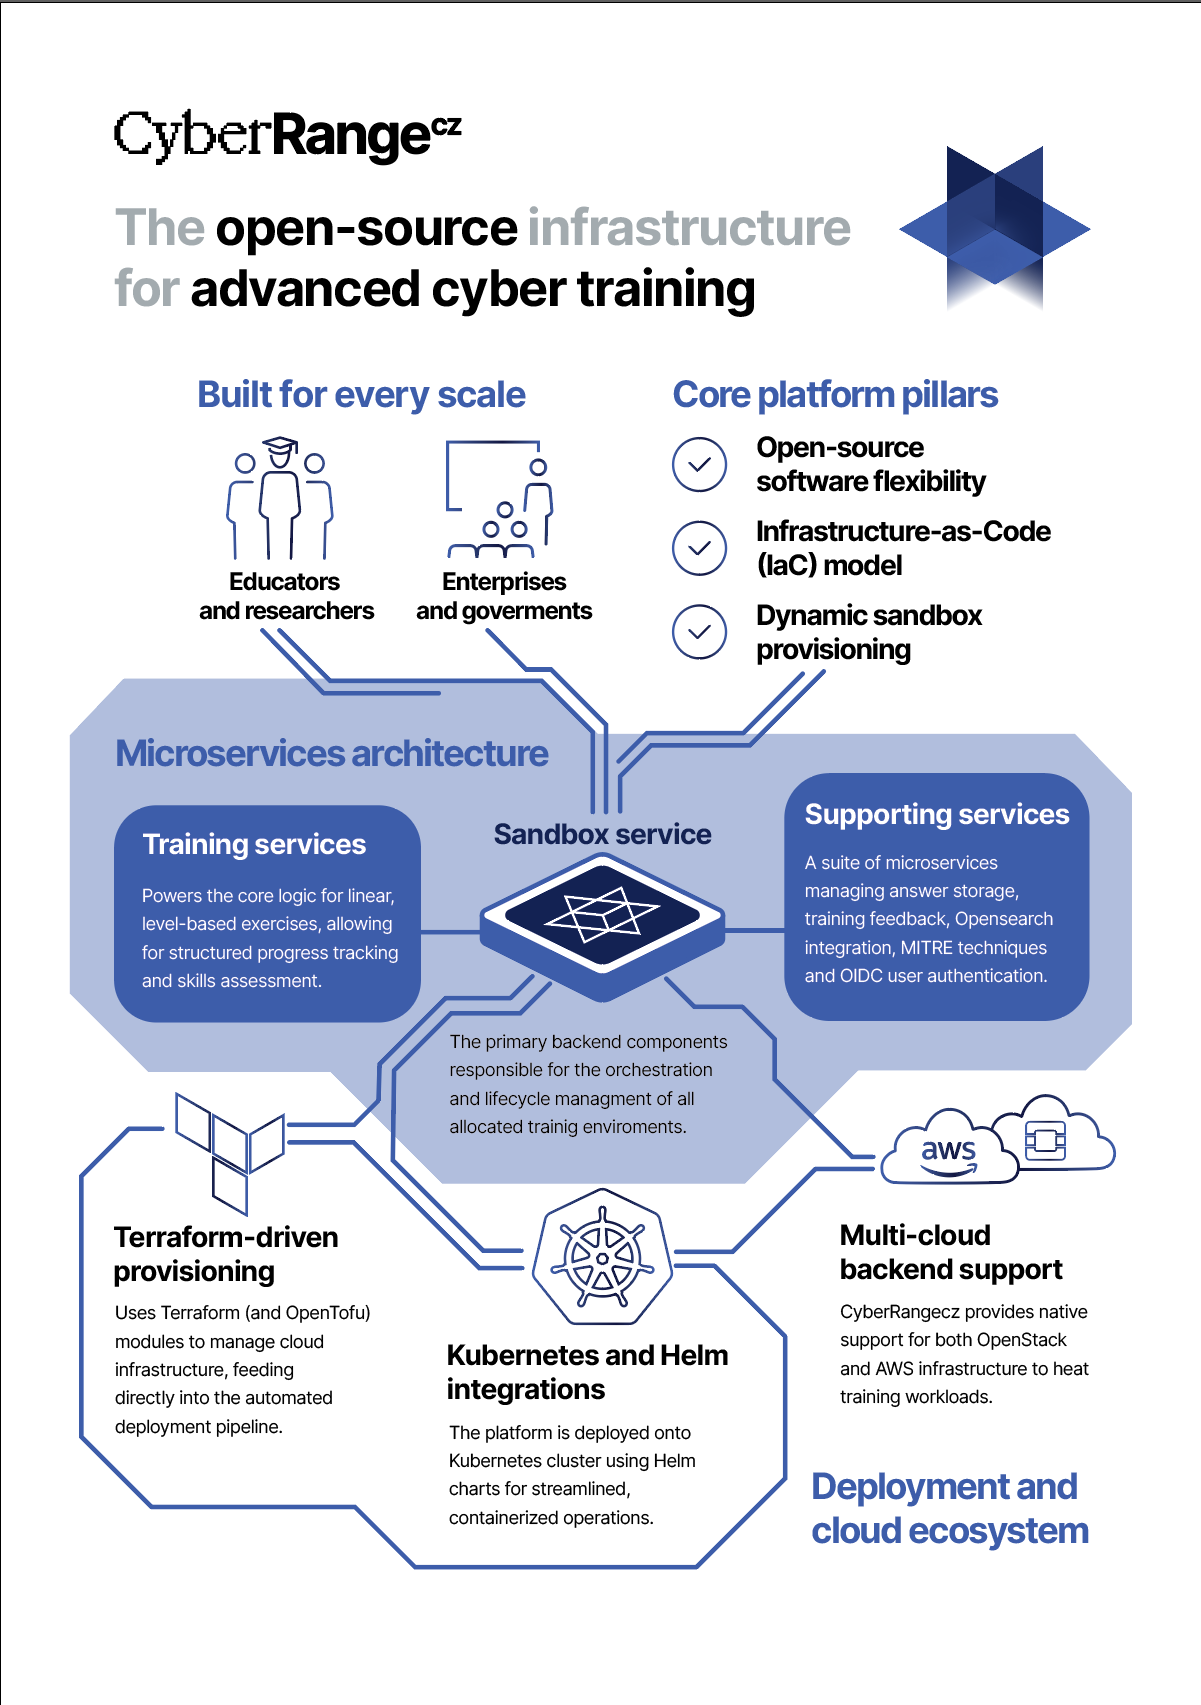
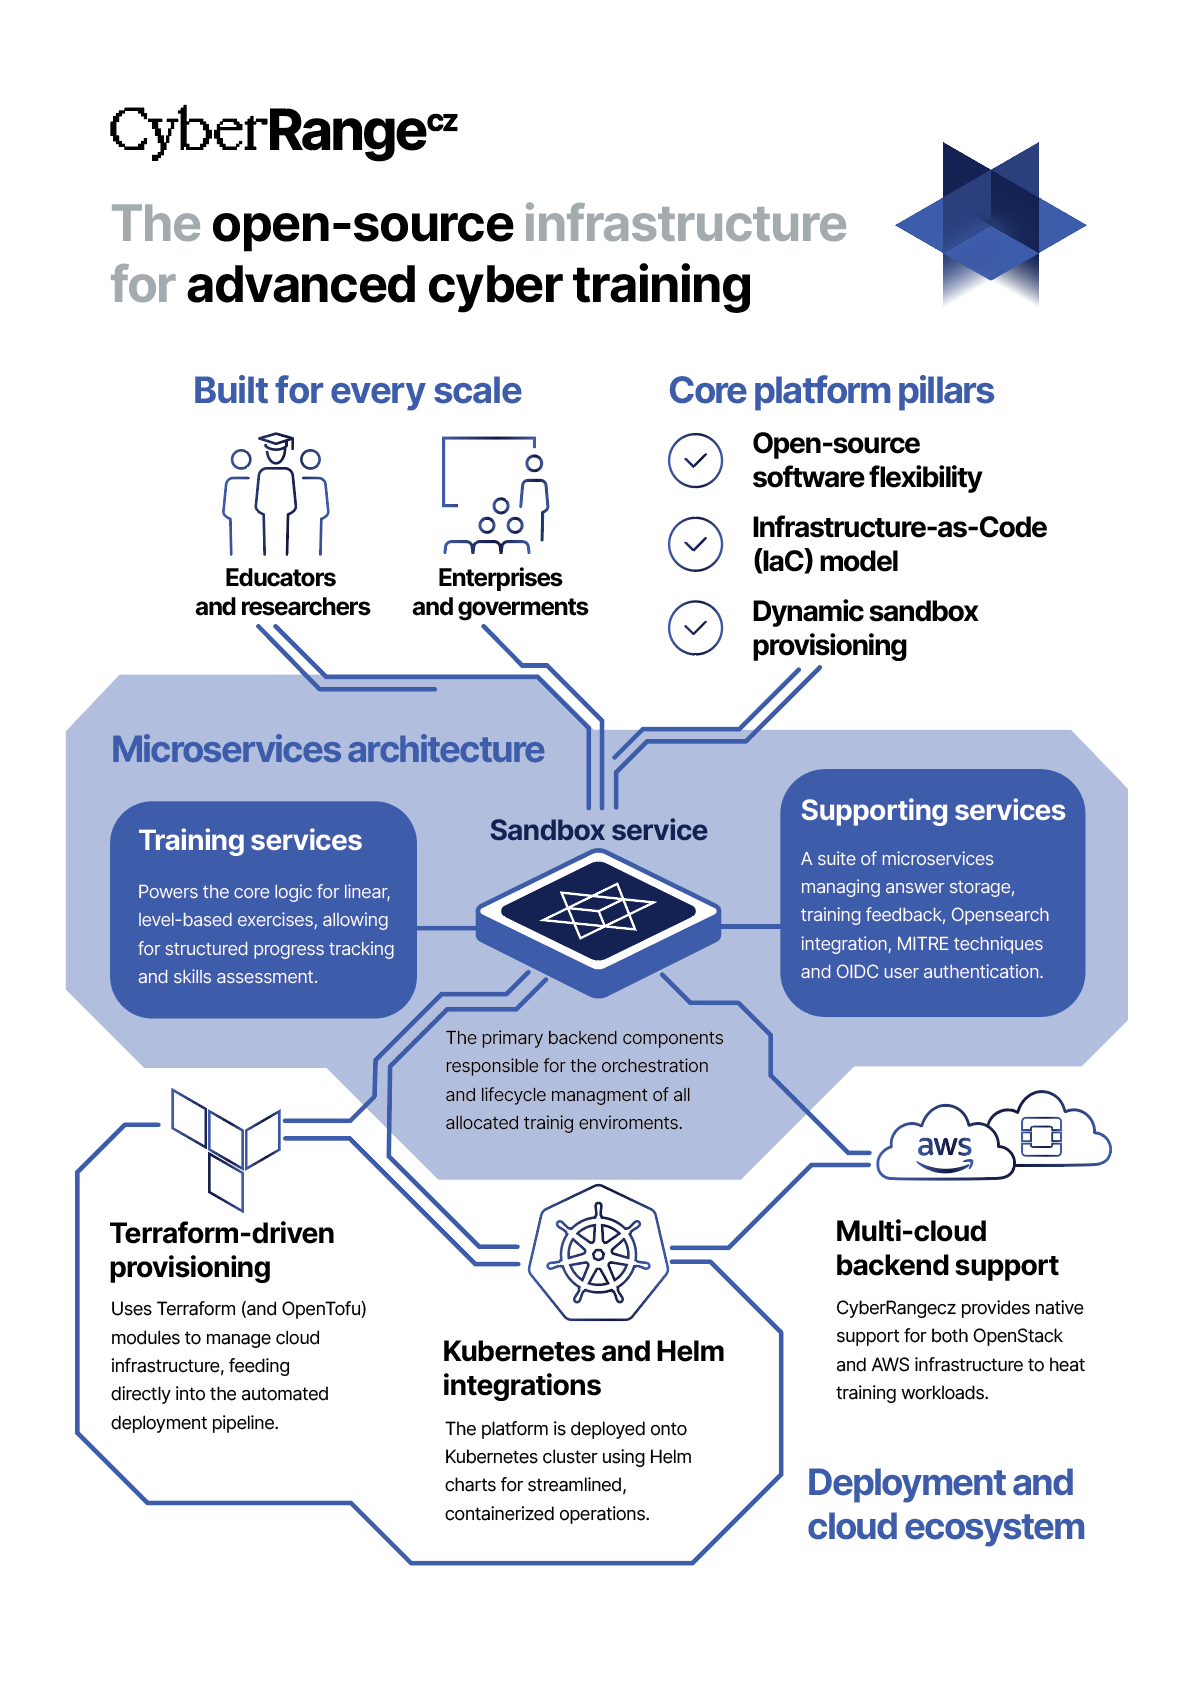
update architecture overview diagram

diff --git a/profile/README.md b/profile/README.md
@@ -1,7 +1,7 @@
 # CyberRangeCZ
 
 <details>
-<summary><strong style="font-size:1.3em">Architecture overview diagram</strong></summary>
+<summary><strong style="font-size:1.5em">Architecture overview diagram</strong></summary>
 
 <p align="center">
   <img src="./assets/overview.png" alt="Overview diagram" width="600">
@@ -14,7 +14,6 @@
 </details>
 
 #
-
 **CyberRangeCZ** is an open-source platform for building, delivering, and managing advanced cybersecurity training environments.  
 It enables organizations to create interactive, scenario-based cyber exercises with features like:
 
